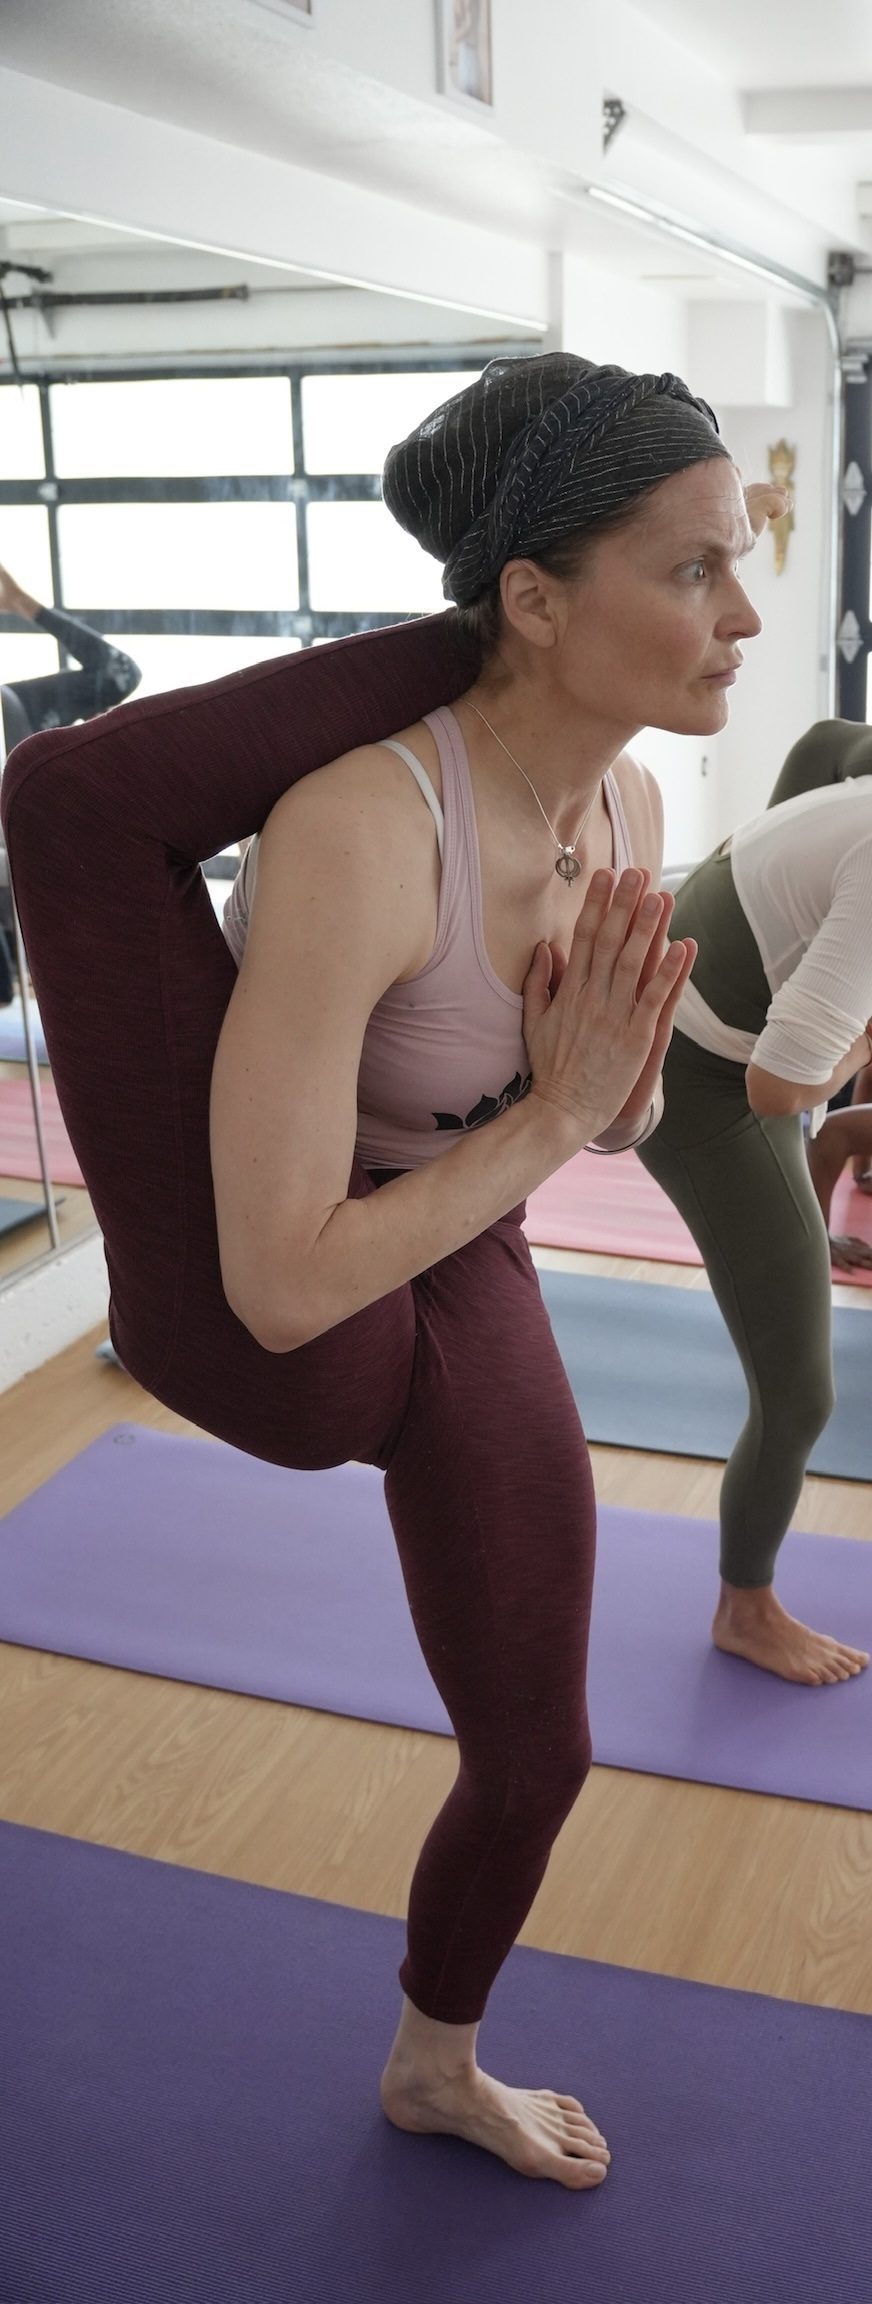
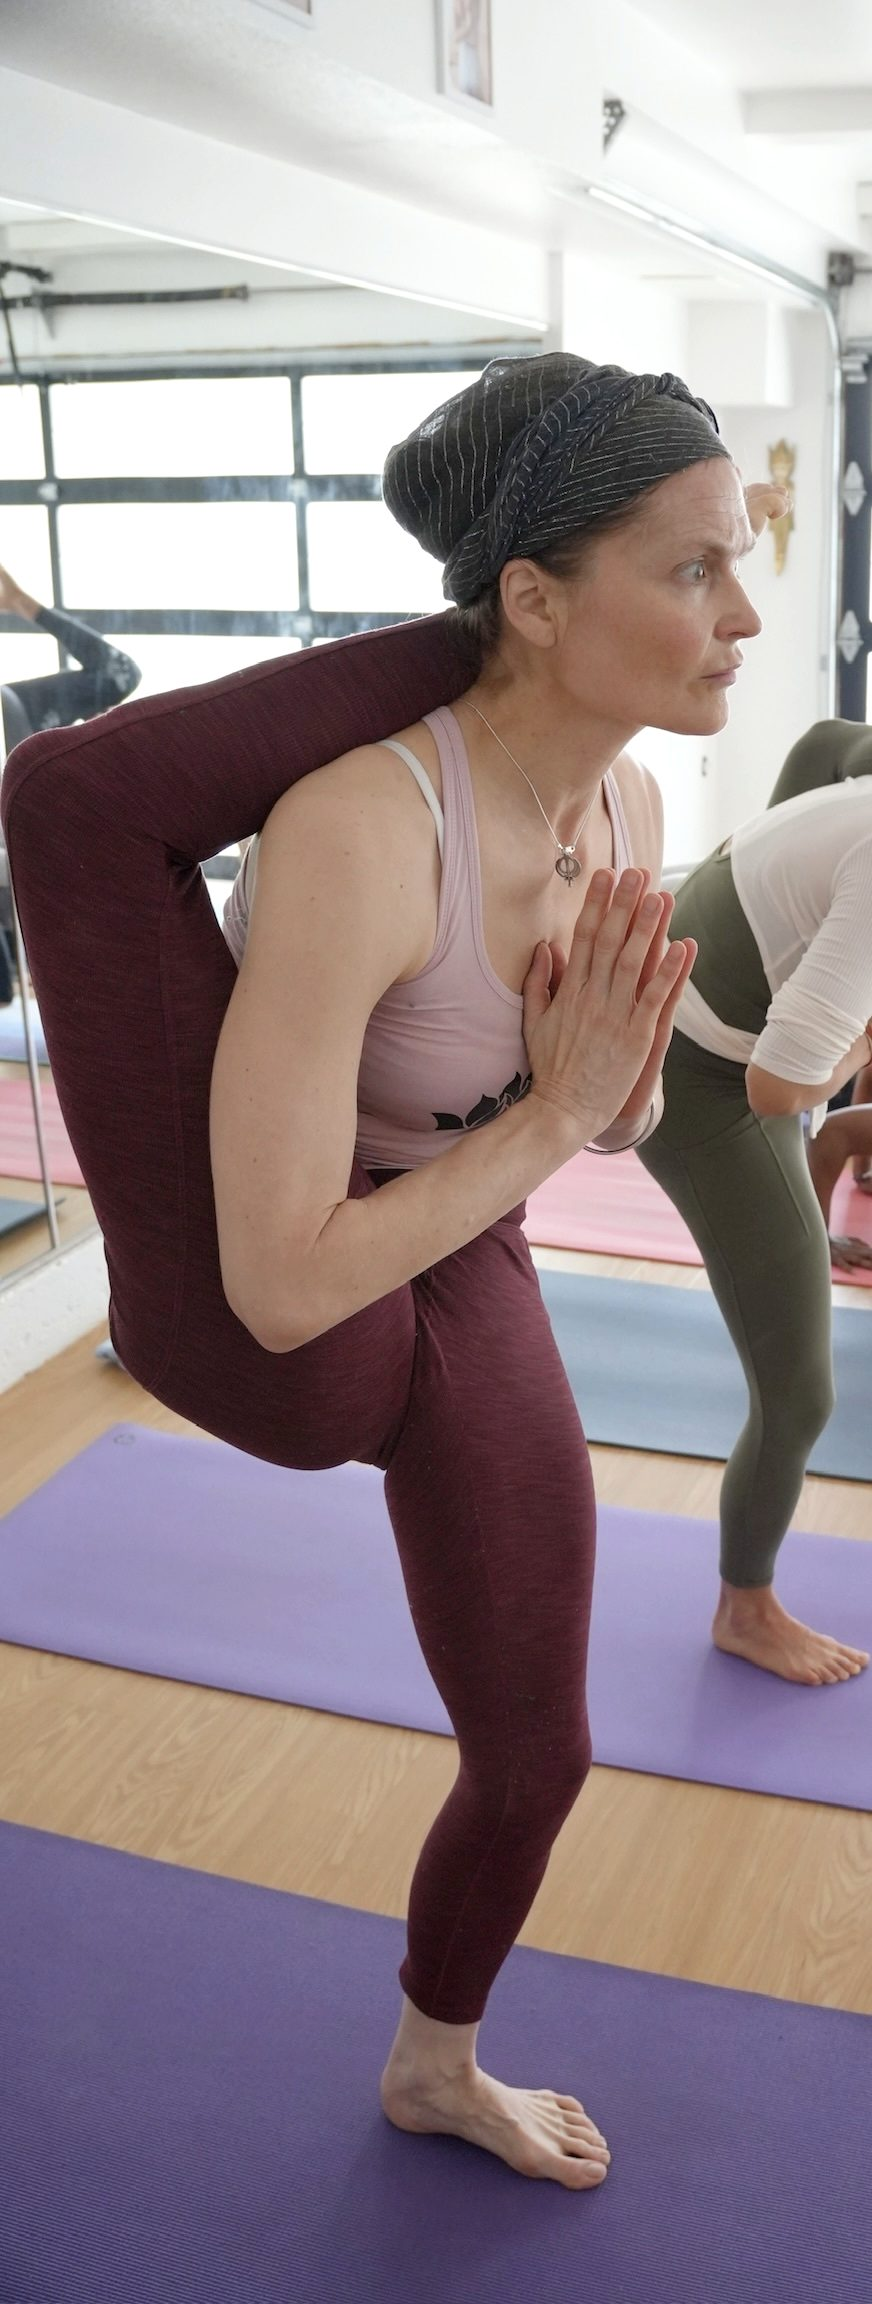
Two-row gallery with three new photos; phone text fixes
- Add the seated breathing, standing twist and hand balance photos,
  cropped so only Swaran is recognizable, and lay the gallery out in two
  fixed rows balanced for shape and color.
- Lighten the standing split, standing bind, standing twist and seated
  photos to sit level with the rest of the gallery.
- Keep class times and "Santa Fe, NM" from breaking across lines on
  phones, and spell out "and" in the Santa Fe registration button.

diff --git a/js/content.js b/js/content.js
@@ -78,7 +78,7 @@ const SITE_CONTENT = {
       venueUrl: "https://www.innersoundyoga.org/",
       venueLinkLabel: "Visit Luminecta Studio",
       registrationUrl: "https://www.innersoundyoga.org/pages/upcoming",
-      registrationLabel: "View Current Schedule & Register",
+      registrationLabel: "View Current Schedule and Register",
       registrationNote:
         "Registration and payment for these classes are handled by the hosting venue.",
     },
@@ -144,17 +144,16 @@ const SITE_CONTENT = {
   // gallery never repeats them. `width`/`height` are the pixel size of the
   // processed image; the gallery uses them to show every photo uncropped.
   gallery: [
+    // Two rows; rowEnd: true closes a row. Row one runs tall, wide, medium,
+    // tall with burgundy at both ends and in the middle. Row two puts the
+    // standing twist in the center, with the seated photo (mirrored so she
+    // faces in) on the left and the arm balance (legs reaching in) on the
+    // right; their red mat and red backpack frame the middle.
     {
       base: "hero-standing-bind",
       alt: "Swaran balances on one leg in a standing pose, hands pressed together at her chest, practicing in a sunlit studio.",
       width: 872,
       height: 2304,
-    },
-    {
-      base: "upward-dog-class",
-      alt: "Swaran lifts into upward-facing dog with her eyes closed during a group class.",
-      width: 1031,
-      height: 1525,
     },
     {
       base: "seated-forward-fold-home",
@@ -163,10 +162,35 @@ const SITE_CONTENT = {
       height: 2048,
     },
     {
+      base: "upward-dog-class",
+      alt: "Swaran lifts into upward-facing dog with her eyes closed during a group class.",
+      width: 1031,
+      height: 1525,
+    },
+    {
       base: "standing-balance-class",
       alt: "Swaran holds an extended standing leg pose during a group class in a bright studio.",
       width: 134,
       height: 404,
+      rowEnd: true,
+    },
+    {
+      base: "seated-pranayama-class",
+      alt: "Swaran sits cross-legged on a purple mat, eyes lowered, during a breathing practice in a group class.",
+      width: 1018,
+      height: 1358,
+    },
+    {
+      base: "standing-twist-home",
+      alt: "Swaran in a standing twist with one arm and one leg raised, on a purple mat in her home studio.",
+      width: 1456,
+      height: 2180,
+    },
+    {
+      base: "arm-balance-class",
+      alt: "Swaran balances on her hands with both legs extended, during a class in a sunny studio.",
+      width: 568,
+      height: 970,
     },
   ],
 };

diff --git a/css/style.css b/css/style.css
@@ -859,6 +859,18 @@ section > .container {
   gap: var(--space-2);
 }
 
+/* Keeps a short phrase such as "Santa Fe, NM" together when its line
+   wraps on a narrow phone. */
+.nowrap {
+  white-space: nowrap;
+}
+
+/* Keep each class time on one line ("9:15–10:30 a.m." was breaking
+   before "a.m." on narrow phones). */
+.schedule-row > span:last-child {
+  white-space: nowrap;
+}
+
 .schedule-row .marker-day {
   display: inline-flex;
   align-items: center;
@@ -916,11 +928,24 @@ section > .container {
    Justified rows: each tile's flex-grow and flex-basis are proportional to its
    photo's aspect ratio (--ratio, set inline), so every tile in a row ends up
    the same height and each photo is shown whole rather than cover-cropped. */
+/* Rows are set in content.js (an item with rowEnd: true closes its row),
+   and each row stretches to the full width with every photo at its own
+   shape. The small --row-height only sets each photo's starting share of
+   the row, low enough that a row never wraps on its own. */
 .gallery-grid {
-  --row-height: 300px;
+  --row-height: 60px;
+  --gallery-gap: var(--space-3);
   display: flex;
   flex-wrap: wrap;
-  gap: var(--space-3);
+  gap: var(--gallery-gap);
+  max-width: 1040px;
+  margin-inline: auto;
+}
+
+.gallery-break {
+  flex-basis: 100%;
+  height: 0;
+  margin-top: calc(-1 * var(--gallery-gap));
 }
 
 .gallery-item {
@@ -933,8 +958,7 @@ section > .container {
 
 @media (max-width: 700px) {
   .gallery-grid {
-    --row-height: 200px;
-    gap: var(--space-2);
+    --gallery-gap: var(--space-1);
   }
 }
 

diff --git a/js/components.js b/js/components.js
@@ -34,7 +34,7 @@ function renderPracticePanels() {
     <article class="practice-panel practice-panel--terracotta">
       <span class="practice-panel-label">Santa Fe Classes</span>
       <h3>${publicClass.name}</h3>
-      <p style="font-weight:600;">${publicClass.venueName} &middot; ${publicClass.venueCity}</p>
+      <p style="font-weight:600;"><span class="nowrap">${publicClass.venueName} &middot;</span> <span class="nowrap">${publicClass.venueCity}</span></p>
       <ul class="practice-panel-schedule">${publicClass.schedule.map(renderScheduleRow).join("")}</ul>
       <p class="practice-panel-note">${publicClass.registrationNote}</p>
       <div class="practice-panel-actions">
@@ -105,7 +105,7 @@ function renderGalleryItem(image, index) {
         </picture>
       </button>
     </li>
-  `;
+  ${image.rowEnd ? '\n    <li class="gallery-break" aria-hidden="true"></li>' : ""}`;
 }
 
 function renderInquiryOptions(selectedValue) {

diff --git a/scripts/process_images.py b/scripts/process_images.py
@@ -9,7 +9,7 @@ Re-run this script any time source-images/ changes:
     python3 scripts/process_images.py
 """
 from pathlib import Path
-from PIL import Image, ImageOps
+from PIL import Image, ImageEnhance, ImageOps
 
 ROOT = Path(__file__).resolve().parent.parent
 SRC = ROOT / "source-images"
@@ -22,6 +22,17 @@ JPEG_Q = 82
 WEBP_Q = 78
 
 # (source filename, output basename, crop box or None (l, t, r, b) in source pixels)
+# Outputs listed in MIRROR are flipped left to right after cropping.
+MIRROR = {"seated-pranayama-class"}
+# Outputs listed in LIFT get their shadows and midtones brightened by this
+# gamma (highlights stay put, so bright windows don't blow out), plus a
+# touch of contrast and color, to sit level with the rest of the gallery.
+LIFT = {
+    "standing-balance-class": 1.8,
+    "hero-standing-bind": 1.25,
+    "standing-twist-home": 1.25,
+    "seated-pranayama-class": 1.5,
+}
 #
 # Privacy rule: Swaran is the only person who may be recognizable in any
 # photo. Every crop below cuts out other people's faces while keeping as
@@ -46,6 +57,18 @@ JOBS = [
     # lying in the background. Keeps the full backbend and the teacher's
     # hands at her feet, at the cost of her fingertips and the tops of her knees.
     ("IMG_3187.jpg", "assisted-backbend-training", (335, 2850, 3700, 4500)),
+    # Swaran seated in front; the top edge sits below the faces of the three
+    # students behind her, trimming only the top of her head wrap. The right
+    # edge (left, once mirrored) is trimmed to the forward fold's 3:4 shape.
+    ("IMG_5743.JPG", "seated-pranayama-class", (260, 690, 1278, 2048)),
+    # Home studio, Swaran alone. Trims a sliver on the left (part of another
+    # person) and the bottom edge (a stray pink item).
+    ("IMG_3198 (1).JPG", "standing-twist-home", (80, 0, 1536, 2180)),
+    # Phone screenshot of a video frame, with the pile of bags behind her
+    # painted out in GIMP (exported from the "cleaned up" .xcf). The crop
+    # drops the phone's top bar and the film strip, and the left edge clears
+    # the teacher standing beside her.
+    ("4434722A-CDDB-4C2A-96B2-9223BB15BA2E cleaned up.png", "arm-balance-class", (182, 130, 750, 1100)),
     # Narrow column around Swaran; the students around her are cut out.
     ("View recent photos 2.PNG", "standing-balance-class", (374, 464, 508, 868)),
 ]
@@ -58,6 +81,14 @@ def process(src_name, out_name, crop):
         img = img.convert("RGB")
     if crop:
         img = img.crop(crop)
+    if out_name in MIRROR:
+        img = ImageOps.mirror(img)
+    if out_name in LIFT:
+        gamma = LIFT[out_name]
+        curve = [round(255 * (i / 255) ** (1 / gamma)) for i in range(256)]
+        img = img.point(curve * 3)
+        img = ImageEnhance.Contrast(img).enhance(1.08)
+        img = ImageEnhance.Color(img).enhance(1.1)
 
     for label, max_w in (("", FULL_MAX_W), ("-thumb", THUMB_MAX_W)):
         w, h = img.size
